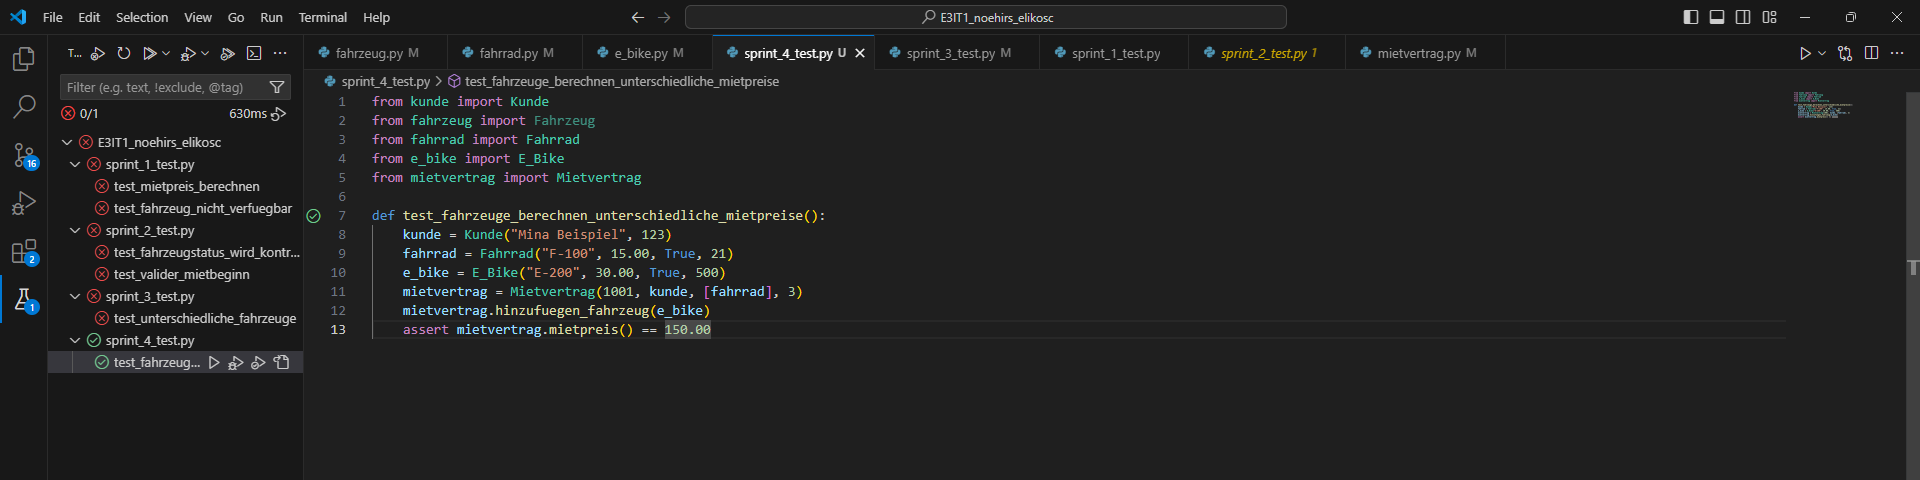
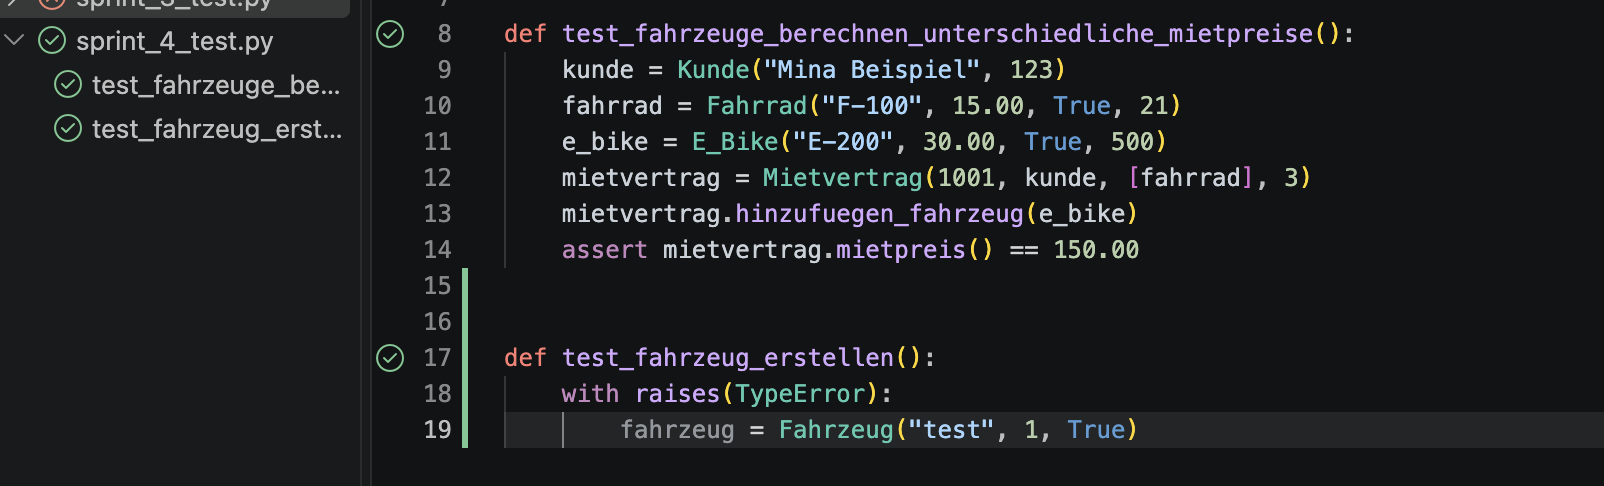
Diagramme und eigenen Test hinzugefügt

diff --git a/sprint_4_test.py b/sprint_4_test.py
@@ -3,6 +3,7 @@ from fahrzeug import Fahrzeug
 from fahrrad import Fahrrad
 from e_bike import E_Bike
 from mietvertrag import Mietvertrag
+from pytest import raises
 
 def test_fahrzeuge_berechnen_unterschiedliche_mietpreise(): 
     kunde = Kunde("Mina Beispiel", 123) 
@@ -11,3 +12,8 @@ def test_fahrzeuge_berechnen_unterschiedliche_mietpreise():
     mietvertrag = Mietvertrag(1001, kunde, [fahrrad], 3) 
     mietvertrag.hinzufuegen_fahrzeug(e_bike) 
     assert mietvertrag.mietpreis() == 150.00
+
+
+def test_fahrzeug_erstellen():
+    with raises(TypeError):
+        fahrzeug = Fahrzeug("test", 1, True)
